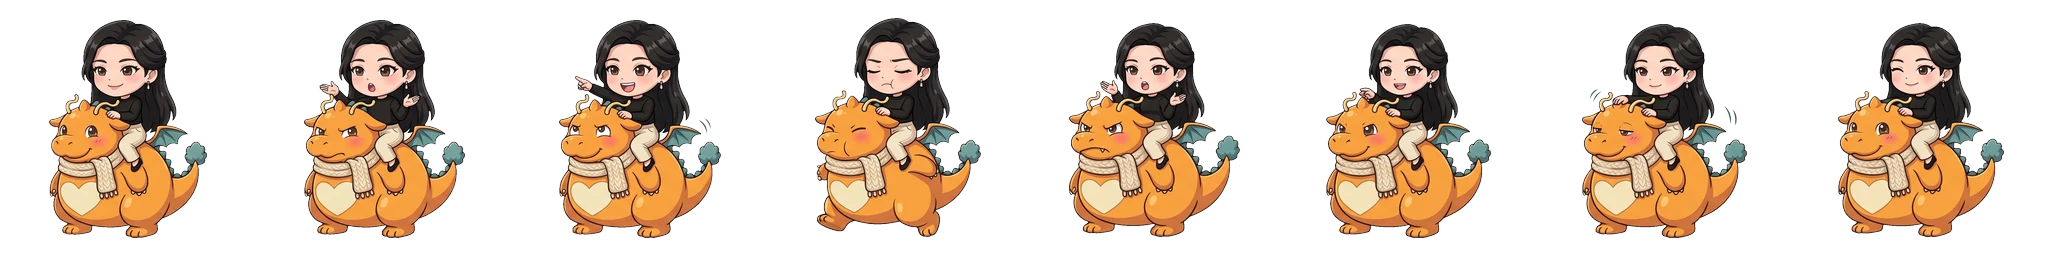
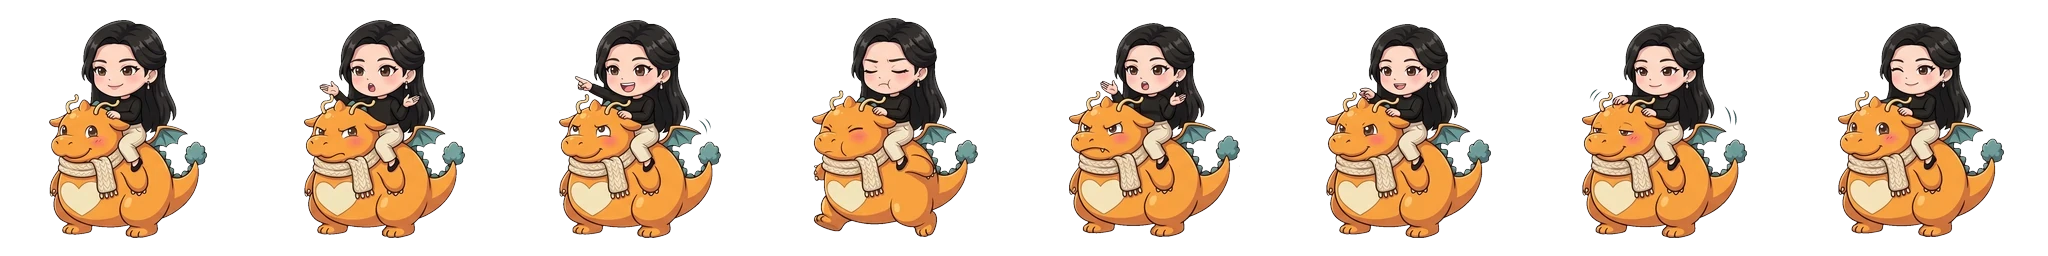
랑방 다듬기 1 — 합류 전 잔상 · ??? 안 그림 · 멤버 평소 흔들림(둥실 · 숨쉬기 · 휘청) 빼고 대기 띠 그림만 · 대기 띠 11개 칸마다 좌우로 밀리던 것 맞춤 · 쓰러짐 띠(h_<id>_down) 연결 준비 · 강화/장비 숫자는 지금 같이 할 수 있고 2% 넘게 좋아지는 것만 (★승급 코인 확인)
Claude-Session: https://claude.ai/code/session_016zscpnQTe5fAmJRC7J2Wse

Changed region(s): [[0.375, 0.125, 0.5, 0.9375]]

diff --git a/public/langbang/render.js b/public/langbang/render.js
@@ -2,7 +2,7 @@
 // 스프라이트는 화면 해상도에 맞춰 미리 구워(bake) 두고 drawImage 만 한다.
 // 이미지가 아직 없거나 404 면 색 원 + 이모지 + 이름표 자리표시자로 그린다.
 import { prepSeason, bakeSeason, drawSeason } from './season-fx.js'; // 시즌 테마 전투 장식 (할로윈 등)
-import { HEROES as HEROES0, SUMMONS, ENEMIES, rowYFor, ATTRS, TRAITS, FUSE_ART, ENEMY_ANIM, PROJ_ART, PROJ_ART_NAMES, BUS, ENEMY_ATK, ATK_MOVES, CADENCE, HERO_ANIM, HERO_ANIM_FORM, HERO_IDLE, WEAPON, artV, EST, LOCK_NAME } from './data.js';
+import { HEROES as HEROES0, SUMMONS, ENEMIES, rowYFor, ATTRS, TRAITS, FUSE_ART, ENEMY_ANIM, PROJ_ART, PROJ_ART_NAMES, BUS, ENEMY_ATK, ATK_MOVES, CADENCE, HERO_ANIM, HERO_ANIM_FORM, HERO_IDLE, HERO_DOWN, WEAPON, artV, EST, LOCK_NAME } from './data.js';
 // 효과 종류: 빛(더하기 섞기) · 물건(보통) · 층 · 색 · 맞은 자리 표시
 const VFX_KIND = {
   soundring: { blend: 'lighter', layer: 'front' },
@@ -1150,7 +1150,6 @@ export class Renderer {
     L(() => { this.drawVfx('ground'); }); // 바닥 무늬: 금 · 경고 원 · 소환진 · 오라 (캐릭터 발밑 · 납작하게)
     L(() => { if (g.r2 && this.r2Draw) this.r2Draw(g, t, 'back'); }); // 건물주 레이드: 거대 보스 · 공격 예고 구역 (raid2-ui.js)
     L(() => { this.drawEnemies(g, t); });
-    L(() => { this.drawJoinWait(g); });
     L(() => { if (!demo) this.drawRope(g, t); });
     L(() => { if (this.ssn && !demo) drawSeason(this, g, t, 'gate'); }); // 시즌 장식: 바리케이드 양 끝 호박등 · 촛불
     L(() => { if (this.skfx) this.skfx.draw('gate', g); }); // 입구 위 (붕대)
@@ -2352,18 +2351,17 @@ export class Renderer {
       const key = alt && this.sprites['h_' + h.id + '_alt'] ? 'h_' + h.id + '_alt' : up && this.sprites['h_' + h.id + '_rage'] ? 'h_' + h.id + '_rage' : 'h_' + h.id;
       const sp = this.sprites[key];
       if (!sp) continue;
-      const bob0 = Math.sin(t * 3 + h.slot) * 1.2, br0 = 1 + Math.sin(t * 2.2 + h.slot * 1.7) * 0.012; // 예전 대기: 둥실 · 숨쉬기 (대기 띠가 있으면 뺀다)
-      let bob = bob0, rot = 0, sx = 1, sy = 1;
+      let bob = 0, rot = 0, sx = 1, sy = 1; // (10/11) 평소 둥실 · 숨쉬기 코드 흔들림은 뺐다 (왔다 갔다 이질감) — 대기 띠 그림만
       if (h.id === 'donghan' && !up) bob -= 12; // 누운 문동한: 스킬 버튼 줄에 가리지 않게
       if (h.recoil > 0) { const p = h.recoil / 0.14; sy = 1 + p * 0.07; sx = 1 - p * 0.05; bob -= p * 3; }
       if (h.rage) { rot = Math.sin(t * 24) * 0.05; bob += Math.sin(t * 30) * 1.5; }
       if (h.charmT > 0) { rot = Math.sin(t * 4) * 0.14; }
       if (h.stunT > 0) { rot = Math.sin(t * 10) * 0.1; sy = 0.94; }
-      if (kp) { rot = kp.rot; bob = kp.bob + (kp.shake ? 0 : Math.sin(t * 3 + h.slot) * 0.4); sx = kp.sx; sy = kp.sy; } // 쓰러짐 · 일어나기 (kdPose)
-      if (h.joinT < 0.4) { const p = h.joinT / 0.4; const e = 1 + Math.sin(p * Math.PI) * 0.3; if (g.joinMode) { bob += (1 - p) * 70; sx *= 0.6 + 0.4 * p; sy *= 0.6 + 0.4 * p * e; } else { sx *= e * p; sy *= e * p; } } // 합류: 아래에서 미끄러져 올라온다
-      if (h.id === 'sunggu' || (h.id === 'ara' && h.alt)) rot += Math.sin(t * 1.5) * 0.04; // 할아버지 · 늙은 공주 휘청
-      if (h.id === 'eunok' && !up) { const sn = Math.max(0, Math.sin(t * 2.6 + h.slot)); sy *= 1 - 0.03 * sn * sn * sn; bob += 0.8 * sn * sn * sn; rot += Math.sin(t * 1.1) * 0.025; if (Math.random() < 0.012 && this.fx) this.fx.part('dot', hx + 6, feet - box * 0.62, 10 + Math.random() * 20, 20, 0.7, 2.6, '#bfe8ff', { grav: 260 }); } // 최은옥 평소: 의자에 앉아 훌쩍훌쩍 (어깨 들썩 · 눈물 똑)
-      sy *= br0; // 숨쉬기
+      if (kp) { rot = kp.rot; bob = kp.bob; sx = kp.sx; sy = kp.sy; } // 쓰러짐 · 일어나기 (kdPose · 쓰러짐 띠가 없을 때만 쓰는 코드 자세)
+      let jb = 0, jsx = 1, jsy = 1; // 합류: 아래에서 미끄러져 올라온다 (대기 띠에도 그대로)
+      if (h.joinT < 0.4) { const p = h.joinT / 0.4; const e = 1 + Math.sin(p * Math.PI) * 0.3; if (g.joinMode) { jb = (1 - p) * 70; jsx = 0.6 + 0.4 * p; jsy = 0.6 + 0.4 * p * e; } else { jsx = e * p; jsy = e * p; } }
+      bob += jb; sx *= jsx; sy *= jsy;
+      if (h.id === 'eunok' && !up && !rmH && Math.random() < 0.012 && this.fx) this.fx.part('dot', hx + 6, feet - box * 0.62, 10 + Math.random() * 20, 20, 0.7, 2.6, '#bfe8ff', { grav: 260 }); // 최은옥 평소: 눈물 똑 (몸 흔들기는 뺐다)
       if (h.reloadT > 0 && h.reloadMax > 0.25) { const q = 1 - h.reloadT / h.reloadMax; rot += Math.sin(q * Math.PI) * -0.13; bob += Math.sin(q * Math.PI) * 1.5; } // 장전: 살짝 기울여 챙기기
       if (h.id === 'hyungyeong' && alt) bob += Math.sin(t * 22) * 1.6; // 날씬 복서 스텝
       if (hgK < 1) { const w = Math.sin(hgK * Math.PI * 3) * (1 - hgK) * (1 - hgK); if (alt) { sx *= 1 - 0.3 * w; sy *= 1 + 0.32 * w; } else { sx *= 1 + 0.34 * w; sy *= 1 - 0.24 * w; } } // 변신 순간 말랑: 날씬 = 쭉 늘었다 출렁 · 통통 = 옆으로 빵빵 부풀었다 출렁
@@ -2510,6 +2508,16 @@ export class Renderer {
         }
         usedStrip = true;
       }
+      if (kp && !usedStrip && kp.fi !== undefined) { // (10/11) 쓰러짐 띠: 맞음 → 넘어짐 → 누워 어질어질(3칸 반복) → 짚고 일어남 · 띠는 오른쪽으로 넘어지게 그려서 왼쪽 자리는 뒤집는다
+        const dk = alt ? (HERO_DOWN[h.id + '_alt'] ? h.id + '_alt' : '') : up && this.sprites['h_' + h.id + '_rage'] ? (HERO_DOWN[h.id + '_rage'] ? h.id + '_rage' : '') : h.id, dn = dk ? this.downSheet(dk) : null;
+        if (dn) {
+          const n = 8, fw = dn.naturalWidth / n, fh = dn.naturalHeight, fi = Math.max(0, Math.min(n - 1, kp.fi)), side = hx < 180 ? 1 : -1, bw = box * (h.id === 'jeongseob' ? h.def.scale || 1 : 1);
+          this.tf(hx, feet, 0, side, 1); cx.drawImage(dn, fi * fw, 0, fw, fh, -bw / 2, -bw * FEET, bw, bw);
+          if (kp.flash > 0) { cx.globalCompositeOperation = 'lighter'; cx.globalAlpha = 0.5 * kp.flash; cx.drawImage(dn, fi * fw, 0, fw, fh, -bw / 2, -bw * FEET, bw, bw); cx.globalCompositeOperation = 'source-over'; cx.globalAlpha = 1; } // 쓰러지는 순간 번쩍
+          const hb = this.downHead(dk, dn); kp.head = { x: hx + side * (hb.x - 0.5) * bw, y: feet + (hb.y - FEET) * bw - 8 }; // 별 · 새는 누운 머리 위
+          usedStrip = true;
+        }
+      }
       const idK = alt ? (hgK >= 1 && HERO_IDLE[h.id + '_alt'] ? h.id + '_alt' : '') : h.id; // 변신 모습 대기 띠 (배현경 날씬 · 있으면)
       if (!usedStrip && !busy && !cp && !up && idK && !rmH && HERO_IDLE[idK] && h.id !== 'ara' && !(this.skinMap && this.skinMap[h.id]) && !(h._hitAt && performance.now() - h._hitAt < 160) && !(h._castAt && performance.now() - h._castAt < 250)) { // 대기 띠 (멤버마다 다른 몸짓 · 시작 칸은 멤버마다 무작위)
         const im = this.idleSheet(idK);
@@ -2517,9 +2525,9 @@ export class Renderer {
           const d = HERO_IDLE[idK], n = d.frames, fw = im.naturalWidth / n, fh = im.naturalHeight;
           if (h._idPh === undefined) h._idPh = Math.random() * n;
           const fi = Math.floor(t * d.fps + h._idPh) % n, fit = this.stripFit('hidle_' + idK, im, n, sp.c, 1), bw = box * fit.k;
-          this.tf(hx + dx, feet + bob - bob0, rot, sx, sy / br0);
+          this.tf(hx, feet + jb + (h.tiredT > 0 ? 3 : 0), 0, jsx, jsy); // (10/11) 대기 띠는 그림만 — 코드로 기울이기 · 늘이기 · 흔들기 없음
           cx.drawImage(im, fi * fw, 0, fw, fh, -box / 2 + fit.dx * box, -box * FEET + fit.dy * box, bw, bw);
-          if (h.id === 'dragon') { const m = DRAGON_MOUTH_IDLE; h._mouth = { x: hx + dx - box / 2 + (m[0] / 256) * box, y: feet + bob - bob0 - box * FEET + (m[1] / 256) * box }; } // 불 뿜는 입 (가만히 있는 그림 기준)
+          if (h.id === 'dragon') { const m = DRAGON_MOUTH_IDLE; h._mouth = { x: hx - box / 2 + (m[0] / 256) * box, y: feet + jb - box * FEET + (m[1] / 256) * box }; } // 불 뿜는 입 (가만히 있는 그림 기준)
           usedStrip = true;
         }
       }
@@ -2981,26 +2989,6 @@ export class Renderer {
   }
 
   // 이호찬 막차 버스: 그림(fx/bus · bus2) 이 있으면 그 그림 · 없으면 노란 버스 모양
-  // 합류 대기: 빈 자리에 흐린 실루엣 + 글자
-  drawJoinWait(g) {
-    if (!g.joinMode || !g.joinPool || !g.joinPool.length) return;
-    const cx = this.cx, box = HERO_BOX;
-    for (const j of g.joinPool) {
-      const sp = this.sprites['h_' + j.id];
-      const x = g.slotX[j.slot], feet = g.rowY + box * FEET_OFF;
-      if (x === undefined) continue;
-      if (sp && sp.real) { // (자리표시자 그림엔 이름이 그려져 있어서 실루엣으로 안 씀)
-        const sil = (this.sils || (this.sils = {}))[j.id] || (this.sils[j.id] = (() => { const c = mkCanvas(sp.c.width, sp.c.height), x2 = c.getContext('2d'); x2.drawImage(sp.c, 0, 0); x2.globalCompositeOperation = 'source-in'; x2.fillStyle = '#c9b8ff'; x2.fillRect(0, 0, c.width, c.height); return c; })());
-        this.tf(x, feet, 0, 1, 1); cx.globalAlpha = 0.28 + Math.sin(performance.now() / 500 + j.slot) * 0.06; cx.drawImage(sil, -box / 2, -box * FEET, box, box); cx.globalAlpha = 1;
-      }
-      this.world();
-      cx.font = `900 9px ${FONT}`; cx.textAlign = 'center'; cx.textBaseline = 'middle';
-      cx.fillStyle = 'rgba(8,4,20,0.7)'; roundRect(cx, x - 22, g.rowY + 16, 44, 14, 7); cx.fill();
-      const ai = this.images['attr_' + ((HEROES[j.id] || {}).attr || '')]; if (imgOk(ai)) cx.drawImage(ai, x - 19, g.rowY + 17.5, 11, 11); // 이름은 숨기고 속성 아이콘만 (합류할 때 공개)
-      cx.fillStyle = '#d8ccff'; cx.fillText('???', x + 5, g.rowY + 23);
-    }
-    this.world();
-  }
   // 입구 불꽃: vfx_hitspark (폰·병은 조각 그림) — 없으면 코드 불꽃
   addDoorHit(x, y, kind) {
     const s = this.doorHits || (this.doorHits = []);
@@ -3058,16 +3046,16 @@ export class Renderer {
       const e = (h.kdSec || 4) - h.kdT;
       h._kdUpAt = 0;
       if (e < 0.3) h._kdDust = false;
-      if (e < 0.16) { const q = e / 0.16; p = { rot: -s * 0.2 * q, dx: -s * 3 * q, bob: 0, sx: 1 + 0.08 * q, sy: 1 - 0.1 * q, flash: 1 - q * 0.6 }; }
-      else if (e < 0.46) { const q = (e - 0.16) / 0.3, k = q * q; p = { rot: -s * 0.2 + (s * LIE + s * 0.2) * k, dx: -s * 3 + (SLIDE + s * 3) * k, bob: LIFT * k, sx: 1, sy: 1 + 0.04 * k, flash: 0.4 * (1 - q) }; }
+      if (e < 0.16) { const q = e / 0.16; p = { rot: -s * 0.2 * q, dx: -s * 3 * q, bob: 0, sx: 1 + 0.08 * q, sy: 1 - 0.1 * q, flash: 1 - q * 0.6, fi: 0 }; }
+      else if (e < 0.46) { const q = (e - 0.16) / 0.3, k = q * q; p = { rot: -s * 0.2 + (s * LIE + s * 0.2) * k, dx: -s * 3 + (SLIDE + s * 3) * k, bob: LIFT * k, sx: 1, sy: 1 + 0.04 * k, flash: 0.4 * (1 - q), fi: q < 0.55 ? 1 : 2 }; }
       else if (h.kdT > UP) {
         const q = Math.min(1, (e - 0.46) / 0.3), bn = rm ? 0 : Math.sin(q * Math.PI) * (1 - q);
-        p = { rot: s * (LIE - 0.18 * bn) + (rm ? 0 : Math.sin(t * 1.3 + h.slot) * 0.015), dx: SLIDE, bob: LIFT - 8 * bn, sx: (1 - 0.14 * (1 - q) * (1 - q)) * (1 + (rm ? 0 : 0.045 * Math.sin(t * 2.4 + h.slot))), sy: 1 + 0.05 * (1 - q), flash: 0 };
+        p = { rot: s * (LIE - 0.18 * bn), dx: SLIDE, bob: LIFT - 8 * bn, sx: 1 - 0.14 * (1 - q) * (1 - q), sy: 1 + 0.05 * (1 - q), flash: 0, fi: q < 0.5 ? 2 : rm ? 3 : 3 + (Math.floor(t * 3 + h.slot) % 3) }; // 누워서 어질어질 (띠 3~5칸 반복)
         if (!h._kdDust) { h._kdDust = true; if (!rm && this.fx) { const bx = hx + SLIDE + s * box * 0.4; for (let i = 0; i < 5; i++) this.fx.part('puff', bx + (i - 2) * box * 0.16, feet - 3, (i - 2) * 22 + (Math.random() - 0.5) * 10, -14 - Math.random() * 16, 0.38 + Math.random() * 0.2, 3.5 + Math.random() * 2.5, 'rgba(225,212,190,0.55)', { drag: 3 }); } }
       } else {
         const u = 1 - h.kdT / UP;
-        if (u < 0.45) { const v = ease(u / 0.45); p = { rot: s * (LIE - 0.62 * v) + (rm ? 0 : Math.sin(u * 40) * 0.03 * v), dx: SLIDE * (1 - 0.3 * v), bob: LIFT * (1 - 0.35 * v), sx: 1, sy: 1 - 0.05 * v, flash: 0 }; }
-        else { const v = (u - 0.45) / 0.55, b = rm ? ease(v) : back(v); p = { rot: s * (LIE - 0.62) * (1 - b), dx: SLIDE * 0.7 * (1 - b), bob: LIFT * 0.65 * (1 - v), sx: 1 + 0.06 * Math.sin(v * Math.PI), sy: 1 - 0.1 * Math.sin(v * Math.PI), flash: 0 }; }
+        if (u < 0.45) { const v = ease(u / 0.45); p = { rot: s * (LIE - 0.62 * v) + (rm ? 0 : Math.sin(u * 40) * 0.03 * v), dx: SLIDE * (1 - 0.3 * v), bob: LIFT * (1 - 0.35 * v), sx: 1, sy: 1 - 0.05 * v, flash: 0, fi: 6 }; }
+        else { const v = (u - 0.45) / 0.55, b = rm ? ease(v) : back(v); p = { rot: s * (LIE - 0.62) * (1 - b), dx: SLIDE * 0.7 * (1 - b), bob: LIFT * 0.65 * (1 - v), sx: 1 + 0.06 * Math.sin(v * Math.PI), sy: 1 - 0.1 * Math.sin(v * Math.PI), flash: 0, fi: 7 }; }
       }
       h._kdLast = p; h._kdEnd = h.kdT;
       return p;
@@ -3075,16 +3063,16 @@ export class Renderer {
     if (h._kdLast) { h._kdUpAt = now; h._kdFrom = h._kdEnd > 0.1 ? h._kdLast : null; h._kdLast = null; } // 막 일어났다
     if (h._kdUpAt) {
       const ms = now - h._kdUpAt, f = h._kdFrom;
-      if (f && ms < 420) { const v = ms / 420, b = rm ? ease(v) : back(v); return { rot: f.rot * (1 - b), dx: f.dx * (1 - b), bob: f.bob * (1 - v) - (rm ? 0 : Math.sin(v * Math.PI) * 6), sx: 1, sy: 1 - 0.08 * Math.sin(v * Math.PI), flash: 0 }; }
+      if (f && ms < 420) { const v = ms / 420, b = rm ? ease(v) : back(v); return { rot: f.rot * (1 - b), dx: f.dx * (1 - b), bob: f.bob * (1 - v) - (rm ? 0 : Math.sin(v * Math.PI) * 6), sx: 1, sy: 1 - 0.08 * Math.sin(v * Math.PI), flash: 0, fi: v < 0.45 ? 6 : 7 }; }
       const k = (ms - (f ? 420 : 0)) / 520;
-      if (k < 1 && !rm) return { rot: Math.sin(k * Math.PI * 6) * 0.11 * (1 - k), dx: 0, bob: 0, sx: 1, sy: 1 - 0.03 * Math.sin(k * Math.PI), flash: 0, shake: 1 }; // 머리 털기
+      if (k < 1 && !rm) return { rot: Math.sin(k * Math.PI * 6) * 0.11 * (1 - k), dx: 0, bob: 0, sx: 1, sy: 1 - 0.03 * Math.sin(k * Math.PI), flash: 0, shake: 1, fi: 7 }; // 머리 털기
       h._kdUpAt = 0; h._kdFrom = null;
     }
     return null;
   }
   // 쓰러진 멤버 머리 위: 빙글빙글 별 + 노란 새 두 마리 (누운 머리 자리를 따라간다)
   kdDizzy(h, hx, feet, box, p, t, rm) {
-    const cx = this.cx, hl = box * 0.74 * (p.sy || 1), x0 = hx + p.dx + hl * Math.sin(p.rot), y0 = feet + p.bob - hl * Math.cos(p.rot) - 12;
+    const cx = this.cx, hl = box * 0.74 * (p.sy || 1), x0 = p.head ? p.head.x : hx + p.dx + hl * Math.sin(p.rot), y0 = p.head ? p.head.y : feet + p.bob - hl * Math.cos(p.rot) - 12;
     const st = this.projSprites.star;
     for (let i = 0; i < 5; i++) {
       const a = (rm ? 0.6 : t * 4.2) + i * TAU / 5, x = x0 + Math.cos(a) * 19, y = y0 + Math.sin(a) * 6, front = Math.sin(a) > 0;
@@ -3108,6 +3096,22 @@ export class Renderer {
     let im = m[id];
     if (!im) { im = m[id] = new Image(); im.decoding = 'async'; im.src = artV(d.src); }
     return imgOk(im) ? im : null;
+  }
+  // 쓰러짐 띠 (h_<id>_down.webp · 8칸): 처음 쓰러질 때 한 번 불러온다 (없으면 null → 예전 코드 자세)
+  downSheet(id) {
+    const d = HERO_DOWN[id]; if (!d) return null;
+    const m = this.downIms || (this.downIms = {});
+    let im = m[id];
+    if (!im) { im = m[id] = new Image(); im.decoding = 'async'; im.src = artV(d.src); }
+    return imgOk(im) ? im : null;
+  }
+  // 누운 칸(4칸째)의 머리 자리 (칸 대비 비율) — 오른쪽 끝 · 위
+  downHead(id, im) {
+    const m = this._dnHead || (this._dnHead = {});
+    if (m[id]) return m[id];
+    let r = { x: 0.8, y: 0.72 };
+    try { const fw = im.naturalWidth / 8, b = this.alphaBox(im, fw * 4, fw, im.naturalHeight, 1); if (b.r > b.l) r = { x: b.l + (b.r - b.l) * 0.84, y: b.t + 0.02 }; } catch { /* 기본값 */ }
+    return (m[id] = r);
   }
   stripFit(key, strip, n, idle, only = 0) {
     const m = this._fit || (this._fit = {});

diff --git a/public/langbang/game.js b/public/langbang/game.js
@@ -2335,29 +2335,63 @@ function todoList() {
 function chestReady(p) { for (let c = 1; c <= chapterOf(nextStage()); c++) { const o = (p.chests || {})[c] || [], cs = L.chapterStars(p, c); const n = L.CHEST_STARS.find((k) => cs >= k && !o.includes(k)); if (n) return [c, n]; } return null; }
 // 지금 할 수 있는 강화 (좋은 순): ★승급 > 출전 멤버 강화 > 더 좋은 장비 > 장비 강화 > 덱 밖 멤버
 //  장비 강화는 코인이 넉넉할 때만 (늘 떠 있으면 무뎌진다)
+let upgCache = null; // 같은 화면을 그리는 동안 여러 번 불려도 한 번만 계산 (가진 것이 바뀌면 다시)
 function upgradeList() {
-  const p = P(), out = [];
+  const p = P();
+  const key = app.profileLoaded ? [p.coins | 0, p.wild | 0, p.stones | 0, (p.gear || []).length, (p.gear || []).reduce((n, g) => n + (g.lv | 0) * 7 + String(g.id).length, 0), JSON.stringify(p.equip || {}), JSON.stringify(p.shards || {}), JSON.stringify(p.heroes || {}), JSON.stringify(p.hstars || {}), (curDeck() || []).join(',')].join('|') : '';
+  if (upgCache && upgCache.p === p && upgCache.key === key) return upgCache.v.slice();
+  const v = upgradeList0(p);
+  upgCache = { p, key, v };
+  return v.slice();
+}
+function upgradeList0(p) {
+  const out = [];
   if (!app.profileLoaded || (p.master && !p.testNormal)) return out; // 마스터는 다 공짜라 안내 안 함
   const d0 = [...new Set((curDeck() || []).filter(Boolean))].filter((h) => API.heroUnlocked(p, h)), deck = d0.length ? d0 : owned().slice(0, 4); // 덱이 아직 비었으면 (장비 화면처럼) 앞 4명
   const pool = [...deck, ...owned().filter((h) => !deck.includes(h))];
+  const sh0 = (h) => (p.shards || {})[h] | 0;
   for (const h of pool) {
     const inD = deck.includes(h), nm = HEROES[h].name, st = L.heroStar(p, h), lv = p.heroes[h] | 0;
-    if (st < L.STAR_MAX && ((p.shards || {})[h] | 0) >= L.STAR_SHARDS[st]) out.push({ go: 'star', id: h, name: nm, txt: `${nm} ★승급할 수 있어요`, ic: 'star_gold', pri: inD ? 300 : 140, up: true });
+    if (canStar(p, h)) out.push({ go: 'star', id: h, name: nm, txt: `${nm} ★승급할 수 있어요`, ic: 'star_gold', pri: inD ? 300 : 140, up: true, coins: L.STAR_COINS[st], shards: L.STAR_SHARDS[st] });
     const c = API.costOf(p, h);
-    if (c !== null && c !== undefined && (p.coins | 0) >= c && ((p.shards || {})[h] | 0) + (p.wild | 0) >= heroCardNeed(lv)) out.push({ go: 'hero', id: h, name: nm, txt: `${nm} 강화할 수 있어요`, ic: 'hammer', pri: (inD ? 250 : 100) - Math.min(40, lv), up: true });
+    if (c !== null && c !== undefined && (p.coins | 0) >= c && sh0(h) + (p.wild | 0) >= heroCardNeed(lv) && lvGain(p, h, lv) >= UP_MIN) out.push({ go: 'hero', id: h, name: nm, txt: `${nm} 강화할 수 있어요`, ic: 'hammer', pri: (inD ? 250 : 100) - Math.min(40, lv), up: true, coins: c, cards: heroCardNeed(lv) });
   }
+  const taken = new Set(); // 같은 장비를 두 멤버에게 권하지 않게
   for (const h of deck) {
     const nm = HEROES[h].name, sl = (p.equip || {})[h] || {};
     for (const k of ['w', 'a']) {
+      const best = betterGear(p, h, k, taken);
+      if (best) { taken.add(best.id); out.push({ go: 'gear', id: h, slot: k, gid: best.id, name: nm, txt: `${nm}에게 더 좋은 ${k === 'w' ? '무기' : '장신구'}`, ic: 'swords', pri: 200, up: true }); continue; }
       const cur = (p.gear || []).find((x) => x.id === sl[k]);
-      const best = (p.gear || []).filter((it) => GEAR[it.t].slot === k && gearFits(it.t, h) && !equippedBy(p, it.id) && (!cur || gearScore(it, h) > gearScore(cur, h) + 1e-9)).sort((a, b) => gearScore(b, h) - gearScore(a, h))[0];
-      if (best) { out.push({ go: 'gear', id: h, slot: k, gid: best.id, name: nm, txt: `${nm}에게 더 좋은 ${k === 'w' ? '무기' : '장신구'}`, ic: 'swords', pri: 200, up: true }); continue; }
-      if (!cur || gMaxed(cur)) continue;
+      if (!cur || gMaxed(cur)) continue; // 장비 강화: 출전 멤버가 낀 장비만
       const cost = gearEnhanceCost(cur.r, cur.lv);
-      if (cost !== null && cost !== undefined && cur.lv < 10 && (p.coins | 0) >= cost * 2 && (p.stones | 0) >= gearStoneNeed(cur.lv)) out.push({ go: 'enh', id: h, slot: k, gid: cur.id, name: nm, txt: `${nm} ${GEAR[cur.t].name} +${cur.lv + 1} 강화`, ic: 'hammer', pri: 90 - cur.lv, up: true });
+      if (cost !== null && cost !== undefined && cur.lv < 10 && (p.coins | 0) >= cost * 2 && (p.stones | 0) >= gearStoneNeed(cur.lv)) out.push({ go: 'enh', id: h, slot: k, gid: cur.id, name: nm, txt: `${nm} ${GEAR[cur.t].name} +${cur.lv + 1} 강화`, ic: 'hammer', pri: 90 - cur.lv, up: true, coins: cost * 2, stones: gearStoneNeed(cur.lv) });
     }
   }
-  return out.sort((a, b) => b.pri - a.pri);
+  out.sort((a, b) => b.pri - a.pri);
+  // (10/11) 지금 가진 코인 · 카드 · 강화석으로 '같이' 할 수 있는 것만 남긴다 (470코인에 강화 7개처럼 하나 하면 끝나는 걸 다 세지 않게)
+  const bud = { c: p.coins | 0, w: p.wild | 0, st: p.stones | 0, sh: Object.assign({}, p.shards || {}) };
+  return out.filter((u) => {
+    if (u.go === 'gear') return true; // 바꿔 끼기는 공짜
+    if ((u.coins | 0) > bud.c || (u.stones | 0) > bud.st) return false;
+    if (u.go === 'star') { if ((bud.sh[u.id] | 0) < u.shards) return false; bud.sh[u.id] -= u.shards; }
+    if (u.go === 'hero') { const own = Math.min(bud.sh[u.id] | 0, u.cards), wl = u.cards - own; if (wl > bud.w) return false; bud.sh[u.id] = (bud.sh[u.id] | 0) - own; bud.w -= wl; }
+    bud.c -= u.coins | 0; bud.st -= u.stones | 0;
+    return true;
+  });
+}
+const UP_MIN = 0.02; // 빨간 점 · 숫자는 전투력이 2% 넘게 오를 때만 (티끌 차이로 계속 뜨지 않게)
+// ★승급: 조각과 코인이 둘 다 있을 때만
+function canStar(p, h) { const st = L.heroStar(p, h); return API.heroUnlocked(p, h) && st < L.STAR_MAX && ((p.shards || {})[h] | 0) >= L.STAR_SHARDS[st] && (p.coins | 0) >= L.STAR_COINS[st]; }
+// 강화 한 번에 전투력이 얼마나 오르나 (비율)
+function lvGain(p, h, lv) { const st = L.heroStar(p, h), gs = heroGearStats(p, h), o = { sig: sigOn(p, h) }, a = heroPowerOf(h, lv, st, gs, o); return a > 0 ? heroPowerOf(h, lv + 1, st, gs, o) / a - 1 : 1; }
+// 이 멤버 이 칸에 '아무도 안 낀' 장비 중 전투력이 2% 넘게 오르는 제일 좋은 것 (장비 탭 칸의 빨간 점과 같은 잣대)
+function betterGear(p, h, k, skip) {
+  const cur = (p.gear || []).find((x) => x.id === ((p.equip || {})[h] || {})[k]), gc = cur ? gearScore(cur, h) : -1;
+  const cand = (p.gear || []).filter((it) => GEAR[it.t].slot === k && gearFits(it.t, h) && !equippedBy(p, it.id) && !(skip && skip.has(it.id)) && gearScore(it, h) > gc + 1e-9).sort((a, b) => gearScore(b, h) - gearScore(a, h));
+  if (!cand.length) return null;
+  const pw = heroPower(p, h);
+  return powerWith(p, h, k, cand[0].id) > pw * (1 + UP_MIN) ? cand[0] : null;
 }
 // 아래 탭 · 로비 버튼 숫자: 강화할 수 있는 멤버 수 / 장비 수
 function upCounts() { const u = upgradeList(), deck = new Set(u.filter((x) => x.go === 'hero' || x.go === 'star').map((x) => x.id)).size, bag = new Set(u.filter((x) => x.go === 'gear' || x.go === 'enh').map((x) => x.gid)).size; return { deck, bag, all: deck + bag }; } // 장비는 같은 장비를 여러 멤버에게 세지 않게
@@ -2518,10 +2552,8 @@ function dots() {
   const tier = L.seasonTier(p);
   const season = p.season && Array.from({ length: tier }, (_, i) => i + 1).some((t) => !p.season.claimed.includes(t));
   const wk = (p.maxStage | 0) >= L.WEEKLY_UNLOCK && !(p.weekly && p.weekly.wi === L.weekIndex(now) && p.weekly.runs > 0);
-  const members = Object.keys(HEROES).some((h) => API.heroUnlocked(p, h) && L.heroStar(p, h) < L.STAR_MAX && (p.shards[h] | 0) >= L.STAR_SHARDS[L.heroStar(p, h)]);
-  const upg = owned().some((h) => { const c = API.costOf(p, h); const lv = p.heroes[h] | 0; return c !== null && c !== undefined && (p.coins | 0) >= c && lv < 5 && ((p.shards || {})[h] | 0) + (p.wild | 0) >= heroCardNeed(lv); });
-  const gearBetter = (() => { const ids = [...new Set((curDeck() || []).filter(Boolean))]; return ids.some((h) => ['w', 'a'].some((k) => { const cur = (p.gear || []).find((x) => x.id === ((p.equip || {})[h] || {})[k]); return (p.gear || []).some((it) => GEAR[it.t].slot === k && !equippedBy(p, it.id) && (!cur || gearScore(it, h) > gearScore(cur, h) + 1e-9)); })); })();
-  return { missions: mis > 0, season, weekly: wk, checkin: !L.checkinState(p, now).done, recruit: (p.tickets | 0) > 0, members, shop: (p.tickets | 0) > 0, deck: members || upg, bag: gearBetter };
+  const u = upCounts(), members = Object.keys(HEROES).some((h) => canStar(p, h)); // (10/11) 강화 · 장비 점은 숫자와 같은 잣대 (지금 할 수 있고 2% 넘게 좋아질 때만)
+  return { missions: mis > 0, season, weekly: wk, checkin: !L.checkinState(p, now).done, recruit: (p.tickets | 0) > 0, members, shop: (p.tickets | 0) > 0, deck: u.deck > 0, bag: u.bag > 0 };
 }
 function navHtml(on) {
   const d = dots(), u = upCounts(), p = P();
@@ -3480,14 +3512,14 @@ function showMembers() {
     const d = HEROES[id];
     const ok = API.heroUnlocked(p, id);
     const st = L.heroStar(p, id);
-    const can = ok && st < L.STAR_MAX && (p.shards[id] | 0) >= L.STAR_SHARDS[st];
+    const can = ok && canStar(p, id);
     return artCard(id, { ok, dot: can });
   }).join('');
   const cardsOld = list.map((id) => {
     const d = HEROES[id];
     const ok = API.heroUnlocked(p, id);
     const st = L.heroStar(p, id);
-    const can = ok && st < L.STAR_MAX && (p.shards[id] | 0) >= L.STAR_SHARDS[st];
+    const can = ok && canStar(p, id);
     const rt = heroRoute(id), tag = rt === 'legend' ? 'LEGEND' : rt === 'hidden' ? 'HIDDEN' : rt === 'gacha' ? '모집' : '';
     return `<button class="mcard ${ok ? '' : 'locked'} ${rt === 'legend' ? 'lg' : rt === 'hidden' ? 'hid' : rt === 'gacha' ? 'ep' : ''}" data-act="heroCard" data-id="${id}" style="--c:${d.color}">
       ${av(d, ok ? '' : 'sil')}<span class="chips">${tag ? `<em class="tg">${tag}</em>` : ''}${d.legend ? '' : `<i class="tier t${heroTier(id)}">${TIER_NAME[heroTier(id)]}</i>`}<span class="pa">${ATTRS[d.attr].icon}</span></span>
@@ -3601,7 +3633,7 @@ function showDeckTab() {
   const all = ['bangjang', ...partnerList()].filter(pass);
   const mine = all.filter((id) => API.heroUnlocked(p, id)).sort((a, b) => heroPower(p, b) - heroPower(p, a));
   const locked = all.filter((id) => !API.heroUnlocked(p, id));
-  const coll = [...mine, ...locked].map((id) => artCard(id, { act: 'deckColl', on: ids.includes(id), dot: API.heroUnlocked(p, id) && L.heroStar(p, id) < L.STAR_MAX && (p.shards[id] | 0) >= L.STAR_SHARDS[L.heroStar(p, id)] })).join('');
+  const coll = [...mine, ...locked].map((id) => artCard(id, { act: 'deckColl', on: ids.includes(id), dot: canStar(p, id) })).join('');
   show(`
     ${subTop('멤버 강화')}
     <div class="dk-top">
@@ -6536,7 +6568,7 @@ function equipTabHtml(p) {
   const find = (gid) => (p.gear || []).find((x) => x.id === gid);
   const slot = (k) => {
     const it = find(sl[k]);
-    const better = (p.gear || []).some((g) => GEAR[g.t].slot === k && gearFits(g.t, sel) && g.id !== sl[k] && !equippedBy(p, g.id) && powerWith(p, sel, k, g.id) > pw); // 빨간 점은 '아무도 안 낀' 더 좋은 장비가 있을 때만 (남의 것은 점 안 띄움)
+    const better = (p.gear || []).some((g) => GEAR[g.t].slot === k && gearFits(g.t, sel) && g.id !== sl[k] && !equippedBy(p, g.id) && powerWith(p, sel, k, g.id) > pw * (1 + UP_MIN)); // 빨간 점은 '아무도 안 낀' 더 좋은 장비가 있을 때만 (남의 것은 점 안 띄움)
     return `<button class="eq-big ${it ? 'r-' + it.r : 'empty'}" data-act="eqOpen" data-hero="${sel}" data-slot="${k}" style="--rc:${it ? GEAR_RARITY[it.r].color : '#4a4060'}">
       <small class="eqb-k">${k === 'w' ? '무기' : k === 'a' ? '장신구' : '신화'}</small>${better ? '<i class="rd"></i>' : ''}
       ${it ? `${gIco(it)}<b>${esc(GEAR[it.t].name)}${it.lv ? ` <em>+${it.lv}</em>` : ''}</b><small>${esc(gearStatText(it))}</small>` : `<span class="eqb-plus">+</span><b>비어 있음</b><small>${k === 'm' ? '신화 장비 전용' : '눌러서 끼기'}</small>`}</button>`;

diff --git a/public/langbang/data.js b/public/langbang/data.js
@@ -110,6 +110,10 @@ export const HERO_ANIM = Object.fromEntries(['ara', 'bangjang', 'dohoon', 'dongh
 export const HERO_IDLE_IDS = ['bangjang', 'staff', 'gunman', 'gunnyeo', 'myunghoon', 'eunok', 'jungmin', 'ingyu', 'sanghwa', 'hochan', 'sunggu', 'youngjun', 'junseo', 'wonsik', 'soyoung', 'junyoung', 'hyungyeong', 'jieun', 'jiwon', 'subin', 'dragon', 'hanna', 'baul', 'byunghwa', 'donghan', 'jeongseob'];
 export const HERO_IDLE = Object.fromEntries(HERO_IDLE_IDS.map((id) => [id, { src: `/img/lb/h_${id}_idle.webp`, frames: 8, fps: 6 }]));
 HERO_IDLE.donghan.fps = 4; // 누워서 느릿느릿
+// 쓰러짐 띠 (10/11 · 2048×256 8칸 · 기본 그림과 같은 크기 · 발 줄 237): 0 맞음 · 1 넘어짐 · 2 쿵 · 3~5 누워 어질어질 · 6 짚고 일어남 · 7 머리 털기
+//  오른쪽으로 넘어지게 그림 (왼쪽 자리는 render.js 가 뒤집는다) · 쓰러질 때 처음 불러온다 · 없는 멤버는 예전 코드 자세 (그림을 눕히기)
+export const HERO_DOWN_IDS = [];
+export const HERO_DOWN = Object.fromEntries(HERO_DOWN_IDS.map((id) => [id, { src: `/img/lb/h_${id}_down.webp`, frames: 8 }]));
 HERO_IDLE.hyungyeong_alt = { src: '/img/lb/h_hyungyeong_slim_idle.webp', frames: 8, fps: 7 }; // 배현경 날씬 (복서 스텝) · 변신 모습 대기 띠는 <id>_alt
 // 느린 판 (2026-10 대개편 · 스테이지 · 주간 · 헬만): 진상 나오는 간격 ×gap · 수 ×count · 한 명 체력 ×hp · 이동 ×espd · 입구 치는 힘 ×door — 한 판 3~4분 · 멤버 하나하나 조종하는 맛
 // 큰 한 방 스킬 (쿨 cd 초 이상: 방장 · 강성구 · 김도훈 · 오지은 · 강병화 · 이호찬 · 정소영) 은 첫 웨이브가 끝나야 쓸 수 있다 — 시작하자마자 몰아 쓰기 방지 (10/08 · 기세도 3칸 → 2칸)
@@ -1005,6 +1009,7 @@ export const ART_VER = {
   h_donghan_cafe: 2, h_donghan_cafe_tf: 2, h_donghan_cafe_attack: 2, 'dex/donghan_cafe': 2, 'dexhq/donghan_cafe': 2, 'dexhq/thumb/donghan_cafe': 2, // 문동한 카페인 풀충전 새로 그림 (Gemini)
   'fx/w_card_r': 2, 'fx/w_card_y': 2, // 운영진 레드·옐로카드 광택 카드로 새로 그림 (Gemini)
   h_eunok: 5, h_eunok_rage: 5, h_eunok_rage_attack: 5, 'dex/eunok': 5, 'dex/eunok_rage': 5, 'dexhq/eunok': 5, 'dexhq/eunok_rage': 5, 'dexhq/eunok_duo': 5, 'dexhq/thumb/eunok': 5, 'dexhq/thumb/eunok_rage': 5, 'dexhq/thumb/eunok_duo': 5, 'fx/w_cup': 3, // 최은옥 술버릇 컨셉 (울면서 소주잔 · 분노 소주병) — 다른 멤버 그림체에 맞춰 다시 그림 · 얼굴 성숙하게 · 머리 크기 맞춤 (Gemini · 5)
+  h_ara_idle: 2, h_byunghwa_idle: 2, h_dohoon_idle: 2, h_dragon_idle: 2, h_gunnyeo_idle: 2, h_hanna_idle: 2, h_hyungyeong_idle: 2, h_hyungyeong_slim_idle: 2, h_soyoung_idle: 2, h_subin_idle: 2, h_sunggu_idle: 2, // (10/11) 대기 띠 칸마다 좌우로 밀리던 것 맞춤 (몸 · 발 기준)
   'season/halloween_key': 2, // (season.js 의 keyart 주소에도 ?v=2 를 직접 붙였다 — 허브 카드 · 로비 배경)
 };
 export const artV = (u) => { const m = typeof u === 'string' && /^\/img\/lb\/([^?]+)\.webp$/.exec(u); return m && ART_VER[m[1]] ? `${u}?v=${ART_VER[m[1]]}` : u; };
